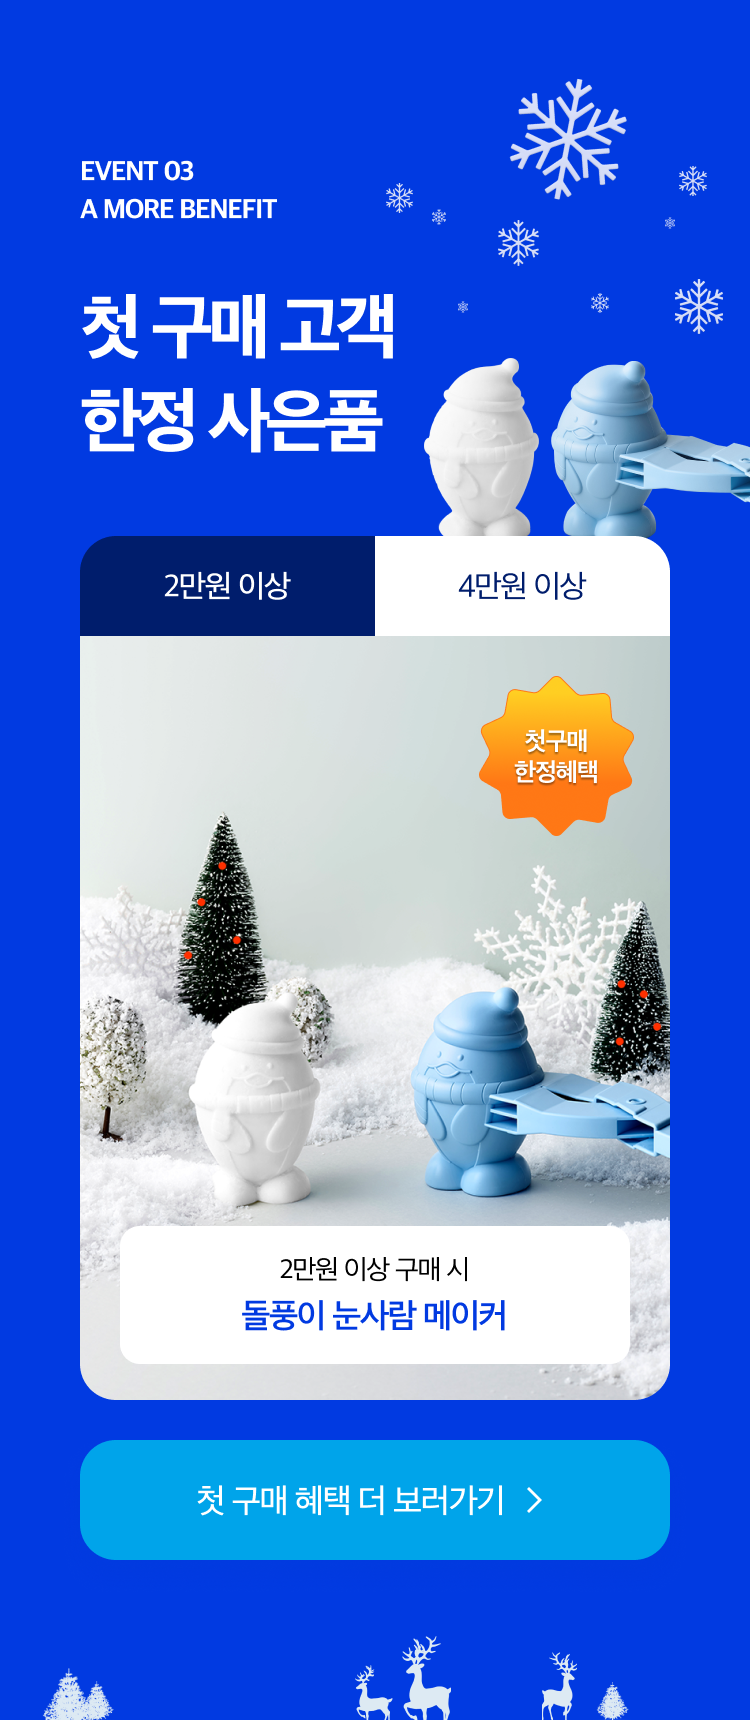
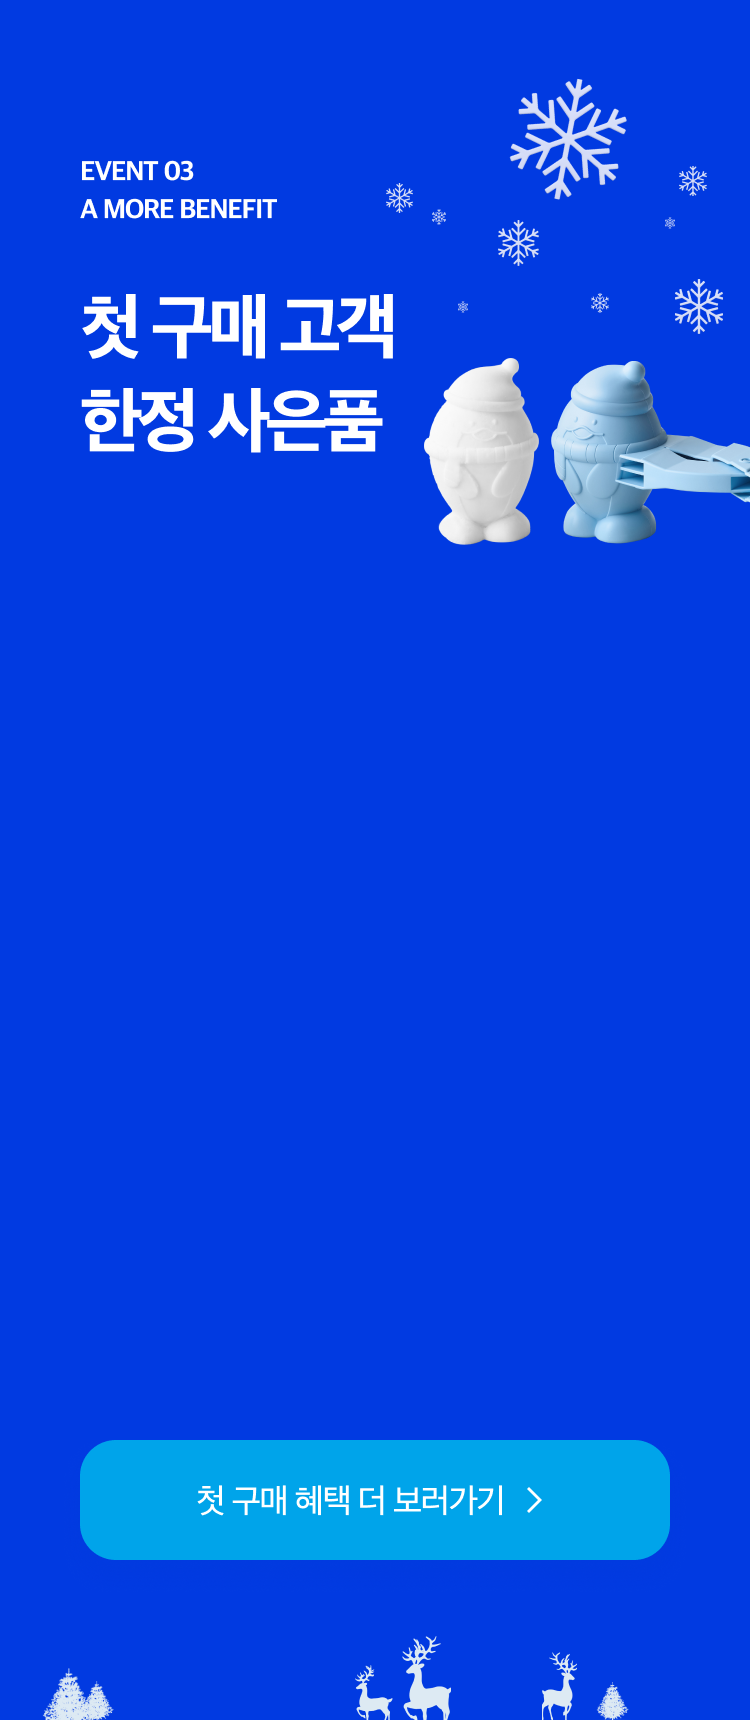
Type E update

diff --git a/type_e/css/style.css b/type_e/css/style.css
@@ -29,16 +29,87 @@ img {
   position: relative;
 }
 .section03 .swiper_coupon {
-  position: absolute;
-  top: 6.5%;
-  padding-bottom: 40px;
+  background-image: url(../img/section_03_con03.jpg);
+  padding-bottom: 80px;
 }
 .mySwiper_03 .swiper-slide {
   width: 80%;
 }
+.mySwiper_03 .swiper-wrapper {
+  background-image: url(../img/section_03_con03.jpg);
+}
 .swiper-pagination {
   bottom: -40px;
 }
+.section05 {
+  background-color: #d9ebfa;
+}
+.section_05_content {
+  margin: 0 60px;
+  padding-bottom: 50px;
+}
+.section05 .keyframe01 {
+  /* margin-top: 36px; */
+  width: 100vw;
+  width: clamp(1px, calc(100vw * 630 / 750), 630px);
+  height: clamp(1px, calc(100vw * 550 / 750), 550px);
+  background-image: url(../img/sec_05_con_01.png);
+  background-size: cover;
+  animation: img1 10s linear infinite;
+}
+@keyframes img1 {
+  15% {
+    background-image: url(../img/sec_05_con_01.png);
+  }
+  25% {
+    background-image: url(../img/sec_05_con_02.png);
+  }
+  40% {
+    background-image: url(../img/sec_05_con_02.png);
+  }
+  50% {
+    background-image: url(../img/sec_05_con_03.png);
+  }
+  65% {
+    background-image: url(../img/sec_05_con_03.png);
+  }
+  75% {
+    background-image: url(../img/sec_05_con_04.png);
+  }
+  90% {
+    background-image: url(../img/sec_05_con_04.png);
+  }
+}
+.gift02 {
+  padding-top: 80px;
+}
+.section05 .keyframe02 {
+  /* margin-top: 36px; */
+  width: clamp(1px, calc(100vw * 630 / 750), 630px);
+  height: clamp(1px, calc(100vw * 550 / 750), 550px);
+  background-image: url(../img/section_05_con02_02.png);
+  animation: img2 10s linear infinite;
+  background-size: cover;
+  border-radius: 0 0 8% 8%;
+}
+@keyframes img2 {
+  16% {
+    background-image: url(../img/section_05_con02_02.png);
+  }
+  32% {
+    background-image: url(../img/section_05_con02_03.png);
+  }
+  48% {
+    background-image: url(../img/section_05_con02_03.png);
+  }
+  64% {
+    background-image: url(../img/section_05_con02_04.png);
+  }
+  80% {
+    background-image: url(../img/section_05_con02_04.png);
+  }
+}
+
 .mySwiper_09 {
   background-color: #ddeaf3;
 }
@@ -115,9 +186,20 @@ img {
   background-color: #001d6c;
   height: 112px;
 }
+.text-tab .mySwiper_01 {
+  margin-left: 5%;
+  height: auto;
+}
+.text-tab .mySwiper_01 .swiper-slide {
+  display: flex;
+}
 .container {
   background-color: #222;
 }
 .footer {
   background-color: #ddd;
+}
+.tab-menu02 {
+  background-color: #013ae1;
+  height: 400px;
 }

diff --git a/type_e/type_e.html b/type_e/type_e.html
@@ -57,11 +57,10 @@
       <section>
         <div class="container">
           <div class="section01"></div>
-          <div class="section02">
-            <img src="./img/section_02.png" />
-          </div>
           <div class="section03">
-            <img src="./img/section_03.png" />
+            <img src="./img/section_03_top.jpg" />
+            <img src="./img/section_03_con01.jpg" />
+            <img src="./img/section_03_con02.jpg" />
             <!-- Swiper -->
             <div class="swiper_coupon">
               <div class="swiper mySwiper mySwiper_03">
@@ -105,17 +104,27 @@
             <img src="./img/section_04.png" />
           </div>
           <div class="section05">
-            <img src="./img/section_05.png" />
+            <img src="./img/section_05_top.jpg" />
+            <div class="section_05_content">
+              <img src="./img/section_05_con01.png" />
+              <div class="keyframe01"></div>
+              <img src="./img/section_05_con03.png" />
+              <div class="gift02">
+                <img src="./img/section_05_con02_01.png" />
+                <div class="keyframe02"></div>
+              </div>
+            </div>
           </div>
           <div class="section06">
-            <img src="./img/section_06.png" />
+            <img src="./img/section_06_top.png" />
+            <div class="tab-menu02"></div>
+            <img src="./img/section_06_bot.png" />
           </div>
           <div class="section07">
             <img src="./img/section_07.png" />
           </div>
           <div class="section08">
             <img src="./img/section_08_top.jpg" />
-
             <div class="swiper-card">
               <!-- Swiper -->
               <div class="swiper mySwiper mySwiper_08">
@@ -176,7 +185,7 @@
       // section03 Swiper
       var swiper = new Swiper(".mySwiper_03", {
         slidesPerView: 2,
-        spaceBetween: 30,
+        spaceBetween: 10,
         loop: true,
         centeredSlides: true,
         pagination: {
